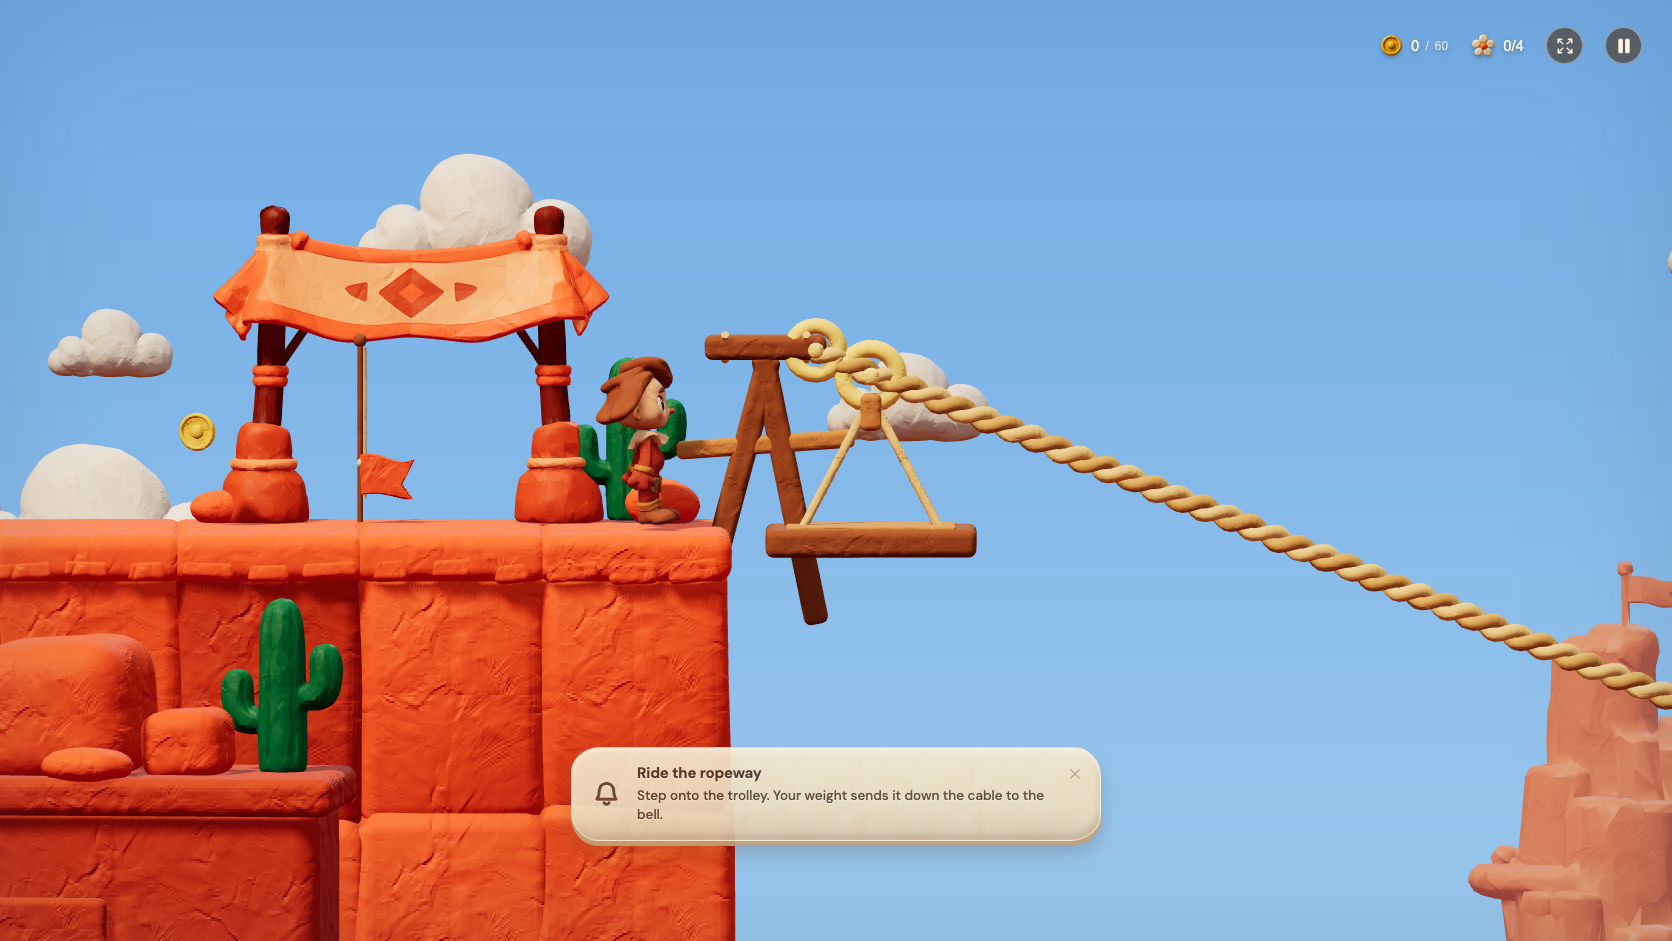
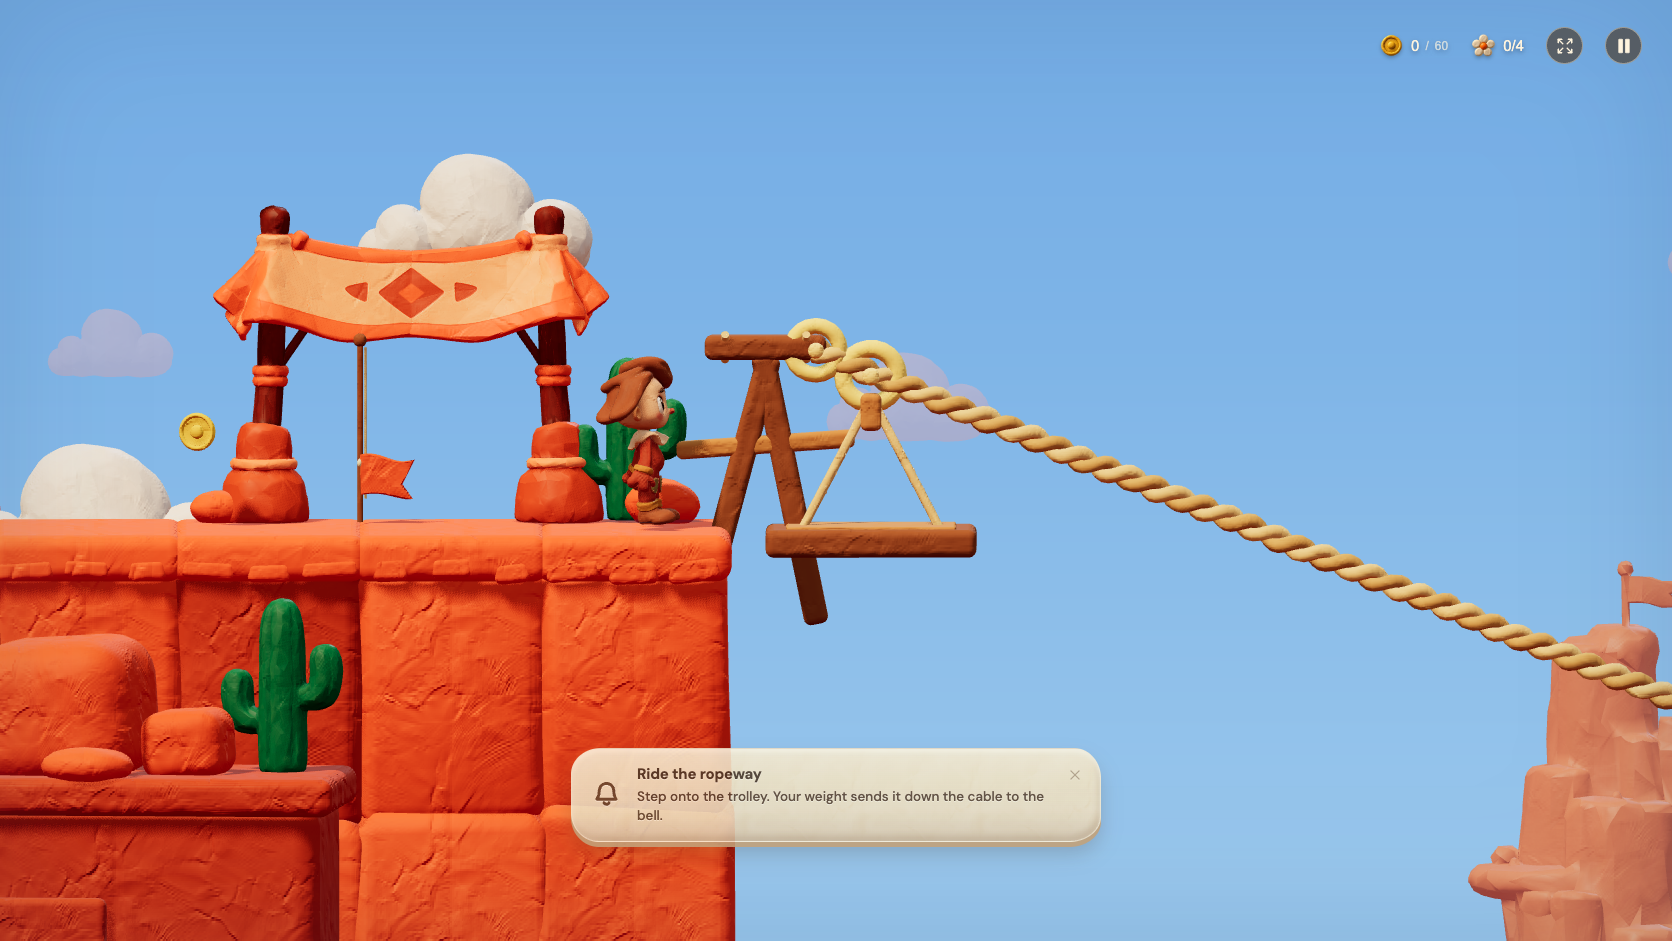
Let the farthest clouds take the fog and the flattening
The farthest cloud rank stands behind the far buttes, so it now takes what
they take: the fog — about three quarters at z -60 — and the same 55% / quarter
flattening, and reads as haze with a shape rather than a white cloud among
mauve rock. The two nearer ranks keep their white. The Boulder Drop's
anchored composition cloud moves to the middle rank, the nearest one that
still stays a cloud.

diff --git a/dist/canyon.js b/dist/canyon.js
@@ -258,13 +258,15 @@ function butte(w,kind,rank,parent,x,y,z,height,turn){
 // the sky held one large salmon shape. The reference scatters a few white
 // puffs of different sizes across the upper frame — four or five in view,
 // the largest about as wide as the mill's sails. The camera is orthographic,
-// so size never comes from depth — it is authored per rank — and the clouds
-// keep their own white: the sky behind them is unfogged too, and a cloud that
-// takes the fog reads as a butte. Farther ranks lean a little toward the sky
-// instead. `y` is world height at the rank's depth; the camera's downward
-// tilt lifts a plane that deep by ~3 units on screen.
+// so size never comes from depth — it is authored per rank. The two nearer
+// ranks keep their own white — the sky behind them is unfogged too — and lean
+// a little toward the sky by tint. The farthest rank stands behind the far
+// buttes and takes what they take: the fog (three quarters at its depth) and
+// the same flattening, so it reads as haze with a shape rather than a cloud.
+// `y` is world height at the rank's depth; the camera's downward tilt lifts a
+// plane that deep by ~3 units on screen.
 const CLOUD_RANKS=[
-  {factor:.06,z:-60,y:[-1.8,2.6],width:[1.35,2.4],spacing:11,tint:0xe2eaf5},
+  {factor:.06,z:-60,y:[-1.8,2.6],width:[1.35,2.4],spacing:11,tint:0xe2eaf5,fog:true,flatten:.55,relief:.25},
   {factor:.12,z:-52,y:[-1.3,3.0],width:[2.1,3.3],spacing:16,tint:0xf1f5fa},
   {factor:.2,z:-44,y:[-.6,3.4],width:[2.85,4.2],spacing:24,tint:0xffffff}
 ];
@@ -272,8 +274,11 @@ function cloudMaterial(w,rank,source){
   if(!source?.isMeshStandardMaterial)return source;
   w.canyonClouds??=new Map();const key=rank+':'+source.uuid;
   if(!w.canyonClouds.has(key)){
-    const m=source.clone();m.userData={};m.fog=false;m.color.multiply(new THREE.Color(CLOUD_RANKS[rank].tint));
-    clayMaterial(w,m,source.userData.clay?.requestedDepth??.035);
+    const {tint,fog=false,flatten=0,relief=1}=CLOUD_RANKS[rank],m=source.clone();m.userData={};
+    m.fog=fog;m.color.multiply(new THREE.Color(tint)).multiplyScalar(1-flatten);
+    // The cloud's albedo is its baked map, so the floor is the rank's tint.
+    m.emissive.setHex(tint);m.emissiveIntensity=flatten*MEAN_LIGHT;m.normalScale?.multiplyScalar(relief);
+    clayMaterial(w,m,(source.userData.clay?.requestedDepth??.035)*relief);
     w.assetMaterials??=new Set();w.assetMaterials.add(m);w.canyonClouds.set(key,m);
   }
   return w.canyonClouds.get(key);
@@ -282,8 +287,9 @@ function cloudField(w,end){
   const anchors=(w.currentLevel?.platforms||[]).filter(s=>s.id==='arch-drop'&&s.kind==='bridge').map(s=>({x:s.x+s.w*.38,y:s.y+.72,scale:4.1/(w.cloudAsset?.width||1)}));
   CLOUD_RANKS.forEach((rank,r)=>{
     const g=group(w.backRoot);g.name='Canyon clouds '+r;
-    // Only the far rank lends a cloud to the Boulder Drop's authored composition.
-    w.parallax.push({group:g,factor:rank.factor,heightFollow:1,...(r===0?{anchors}:{})});
+    // The middle rank lends a cloud to the Boulder Drop's authored composition:
+    // the nearest unfogged, unflattened rank, so the piece stays a white cloud.
+    w.parallax.push({group:g,factor:rank.factor,heightFollow:1,...(r===1?{anchors}:{})});
     // Cover the view from the chapter's first frame to its last: the rank's
     // own travel plus a screen either side, so nothing pops in at the edges.
     const reach=end*rank.factor+14;

diff --git a/docs/canyon-atmosphere/README.md b/docs/canyon-atmosphere/README.md
@@ -41,11 +41,14 @@ stdev) went 8.0 → 3.5; the original cream-fog frame measured 2.6.
 
 **One salmon cloud → a field.** Twelve clouds at one depth, one size, sixteen
 apart, 96 % fogged: two on screen, both pink. Now three ranks
-(`CLOUD_RANKS`, factors .06/.12/.2 at z −60/−52/−44) of 1.35–4.2-unit puffs
-with `fog:false`, 15 built, 4–5 in view (a first pass at twice the count and
-two thirds the size read as busy). The camera is orthographic, so sizes are
-authored, not a consequence of depth. The Boulder Drop's anchored cloud still
-composes from the far rank.
+(`CLOUD_RANKS`, factors .06/.12/.2 at z −60/−52/−44) of 1.35–4.2-unit puffs,
+15 built, 4–5 in view (a first pass at twice the count and two thirds the
+size read as busy). The two nearer ranks are `fog:false` and keep their
+white; the farthest stands behind the far buttes and takes what they take —
+the fog (about three quarters at z −60) and the same 55 % / ¼ flattening — so
+it reads as haze with a shape. The camera is orthographic, so sizes are
+authored, not a consequence of depth. The Boulder Drop's anchored cloud now
+composes from the middle rank, the nearest one that stays a white cloud.
 
 **A gradient sky.** `sky-gradient.js` is the cave's `hazeGradient` made
 shareable; the canyon rides it on a factor-0 layer with `SKY_STOPS`. Subtle by
